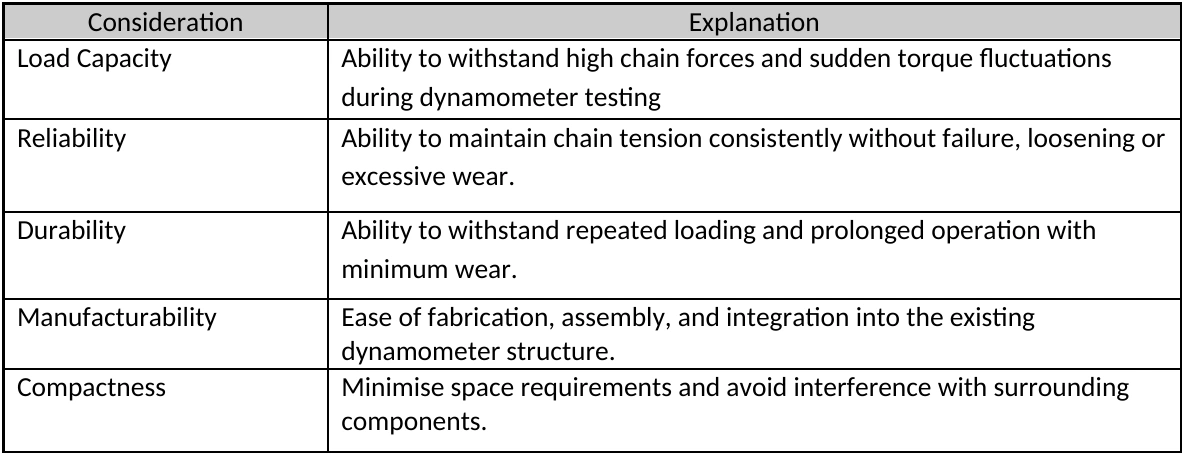
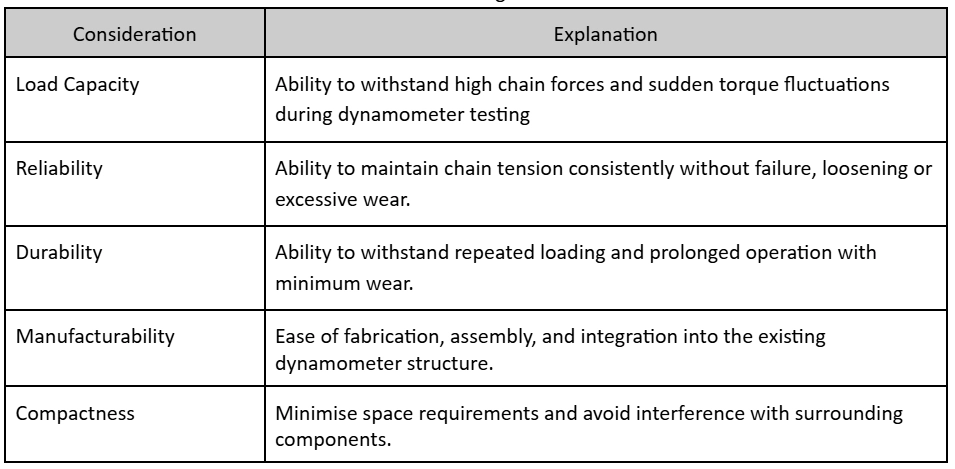
Restore table screenshots and match original report table spacing

Changed region(s): [[0.0, 0.0, 1.0, 1.0]]

diff --git a/index.html b/index.html
@@ -254,7 +254,7 @@ motor.</p><h4 id="power-transmission-system-design-considerations">3.6.1 Power
 Transmission System Design Considerations</h4><p>Based on our design criteria for the dynamometer, we further
 specified the power transmission’s design considerations in table 4.</p><p class="caption">Table 4: Power Transmission System Design Considerations</p><figure class="report-table-image"><img src="table-images/table-04.webp" alt="Table 4 from the final report" loading="lazy"></figure><h4 id="types-of-power-transmission-systems">3.6.2 Types of Power
 Transmission Systems</h4><p>We considered 3 types of power transmission systems, as seen in table
-5.</p><p class="caption">Table 5: Comparison of Power Transmission Types</p><figure class="report-table-image"><img src="table-images/table-05.webp?v=4" alt="Table 5 from the final report" loading="lazy"></figure><p>A weighted decision matrix was therefore used to evaluate the
+5.</p><p class="caption">Table 5: Comparison of Power Transmission Types</p><figure class="report-table-image"><img src="table-images/table-05.webp?v=5" alt="Table 5 from the final report" loading="lazy"></figure><p>A weighted decision matrix was therefore used to evaluate the
 concepts, as shown in Table 6.</p><p class="caption">Table 6: Weighted Decision Matrix of Power Transmission Systems</p><figure class="report-table-image"><img src="table-images/table-06.webp" alt="Table 6 from the final report" loading="lazy"></figure><p><em>Scores: 1 = Poor, 2 = Below Average, 3 = Moderate, 4 = Good, 5 =
 Excellent.</em></p><p>Based on the weighted decision matrix, the chain drive achieved the
 highest score. It was therefore selected as it offers reliable power
@@ -268,10 +268,9 @@ prevent chain derailment, excessive wear, and vibration during
 operation. Therefore, different tensioning concepts were evaluated to
 identify a suitable mechanism for the dynamometer.</p><h4 id="tensioner-design-considerations">3.7.1 Tensioner Design
 Considerations</h4><p>Based on our design criteria for the dynamometer, we further
-specified the frame’s design considerations in table 7.</p><p class="caption">Table 7: Tensioner Design Considerations</p><figure class="report-table-image"><img src="table-images/table-07.webp?v=4" alt="Table 7 from the final report" loading="lazy"></figure><h4 id="types-of-tensioner">3.7.2 Types of tensioner</h4><p>We considered 3 types of tensioning mechanisms, as seen in table
-8.</p><p class="caption">Table 8: Comparison of Tensioner Types</p><figure class="report-table-image"><img src="table-images/table-08.webp?v=4" alt="Table 8 from the final report" loading="lazy"></figure><p>A weighted decision matrix was therefore used to evaluate the
-concepts, as shown in Table 9.</p><p class="caption">Table 9: Weighted Decision Matrix of Tensioners</p><figure class="report-table-image"><img src="table-images/table-09.webp?v=4" alt="Table 9 from the final report" loading="lazy"></figure><p><em>Scores: 1 = Poor, 2 = Below Average, 3 = Moderate, 4 = Good, 5 =
-Excellent.</em></p><p>The manual take-up tensioner achieved the highest weighted score and
+specified the frame’s design considerations in table 7.</p><p class="caption">Table 7: Tensioner Design Considerations</p><figure class="report-table-image"><img src="table-images/table-07.webp?v=5" alt="Table 7 from the final report" loading="lazy"></figure><h4 id="types-of-tensioner">3.7.2 Types of tensioner</h4><p>We considered 3 types of tensioning mechanisms, as seen in table
+8.</p><p class="caption">Table 8: Comparison of Tensioner Types</p><figure class="report-table-image"><img src="table-images/table-08.webp?v=5" alt="Table 8 from the final report" loading="lazy"></figure><p>A weighted decision matrix was therefore used to evaluate the
+concepts, as shown in Table 9.</p><p class="caption">Table 9: Weighted Decision Matrix of Tensioners</p><figure class="report-table-image"><img src="table-images/table-09.webp?v=5" alt="Table 9 from the final report" loading="lazy"></figure><p>The manual take-up tensioner achieved the highest weighted score and
 was selected for its rigidity, load capacity, and simplicity under high
 torque and speed.</p><p>Although the spring tensioner automatically compensates for chain
 elongation, it introduces additional complexity and allows shaft
